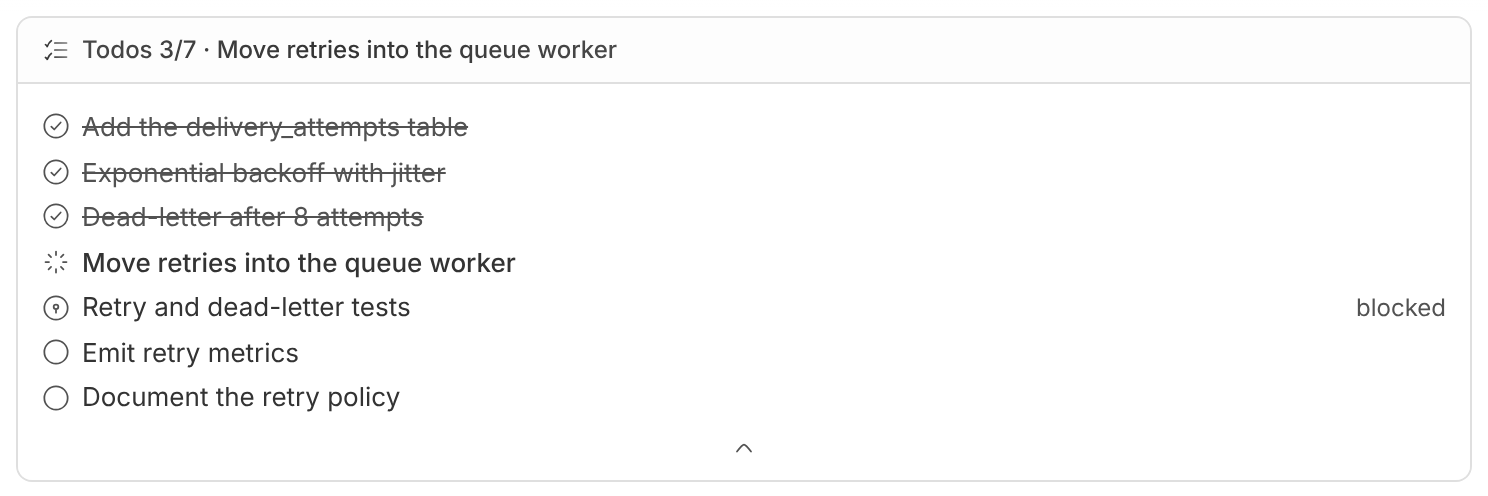
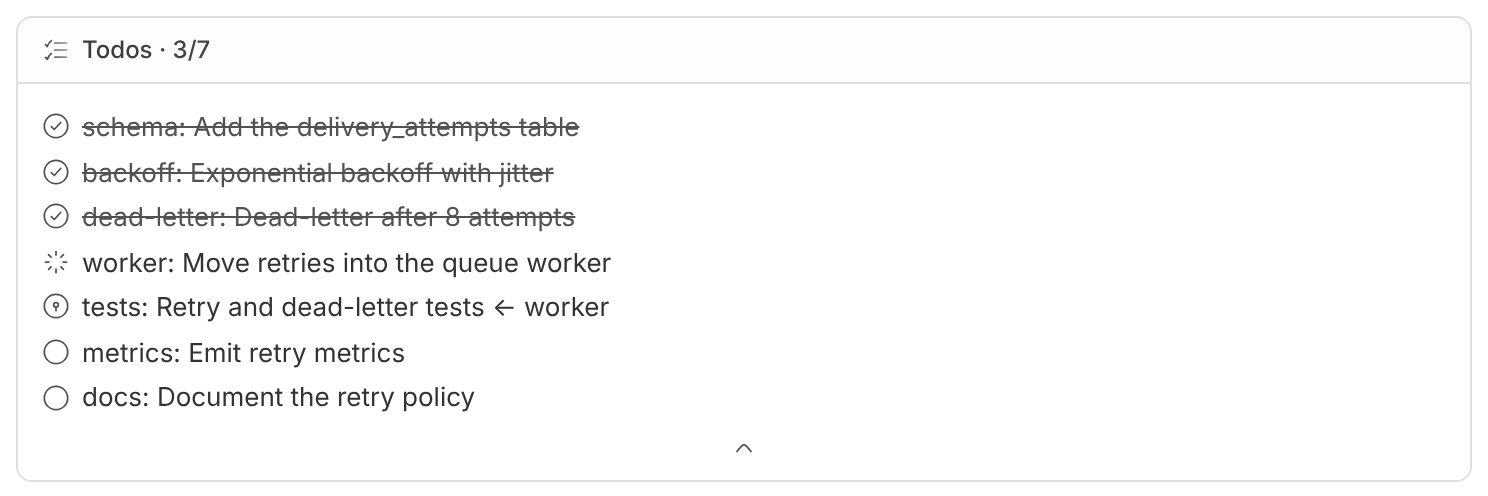
docs(bb): describe the slots that draw pi-surface views, and record package 7
Claude-Session: https://claude.ai/code/session_01MbvfwxLo2ULDWqmpcPBnJq

diff --git a/docs/bb/ui-slots.md b/docs/bb/ui-slots.md
@@ -14,7 +14,7 @@ slot below is `experimental_` unless noted; recheck after a bb upgrade.
 All images show fixture data from `bb pi-surface fixture --thread <id>`, cropped
 to the plugin's own element, light theme, 2x. The `bb-screenshot` skill
 (`.agents/skills/bb-screenshot/`) runs a private bb with the plugin and scripted
-Pi sessions and takes these crops; images 1 and 2 were last made with it.
+Pi sessions and takes these crops; images 1, 2 and 6 were last made with it.
 
 - **Live** images were captured from the bb web UI on loopback with headless
   Chromium, on a real thread page with the plugin installed.
@@ -43,10 +43,21 @@ sit. Register a banner with `chrome: "bare"` and draw
 `experimental_CollapsibleStackCard` (`label`, `title`, `icon`, `isActive`,
 optional `dismiss`, `children`). Plugin banners sit above bb's own cards.
 
-We draw two cards: **Todos** (`Todos 3/7 · <active task>`, active while a task
-is in progress, expanding to the task list with status glyphs) and
-**Subagents** (`Subagents · 2 running`, one row per agent with type,
-description, state, duration, tool count and latest note).
+Each card is one of the session's widget views (see
+[pi-surface](../../packages/pi-surface/README.md)), drawn by the plugin's
+generic renderer: **Todos** is `todo.widget` (`Todos · 3/7`, active while a task
+is in progress) and **Subagents** is `subagent.widget` (running, waiting and
+just-finished agents with their latest activity). The title is the widget's
+title and its fullest meta. Rows read as the terminal draws them at full
+width: the left line, then the fullest right-column fallback, with state glyphs
+as bb's icons in place. A subagent row is its clock, the agent type in bold,
+the description and, at the right, the spinner and activity; the clock carries
+its start time, so bb keeps it running between snapshots. A row whose most
+compact form is only its state glyph, a task, shows that state as its leading
+icon instead (a check, a spinner, a lock, a circle…), and a finished task is
+struck through.
+A widget with nothing to show draws no card. The plugin keeps only a small
+table of which widget gets a card and which bb icon it has.
 
 ![Todos and Subagents cards, collapsed](../images/bb/stack-cards.png)
 
@@ -58,8 +69,9 @@ Spacing: bb draws the card frame, the header (`px-3 py-1.5`: a 12px inset,
 14px icon, 6px gap to the title) and the collapse row at the bottom, and wraps
 `children` with no padding of its own. The body's padding is ours: the cards
 pad it `px-3 pt-3` and give rows the header's icon size and gap, so the body has
-the header's 12px inset on the left, right and top and its icons and text line
-up under the header's. The card takes no `className`, so the header and the
+the header's 12px inset on the left, right and top, and each row keeps a
+leading column as wide as the header's icon, so row text lines up under the
+header's title. The card takes no `className`, so the header and the
 collapse row cannot change. `bb-shot.mjs --check` in the `bb-screenshot` skill
 measures this in bb.
 
@@ -156,12 +168,19 @@ A tab in the thread's side panel. `experimental_tab({ context: { kind:
 pins one destination; `availability: "action"` would add a launcher for
 closable instances instead. Ours is the fixed **Pi** tab, visible only on
 threads with a session: header (name, status, agent, model, thinking, context
-use), open questions, todos (a task opens its status history, fetched from the
-session on demand), subagents, stash (an entry opens a preview of its first
-lines on demand), Git, recent tool calls and usage. It uses bb's
-`experimental_InfoSection`, `InfoList` and `InfoListRow`.
+use), open questions, then every explorer view the session offers, then recent
+tool calls and usage. The explorers are drawn by the generic renderer as Info
+sections: `todo.explorer`, `subagent.explorer`, `stash.explorer`,
+`git.worktrees` and `git.prs` in that order, any other after them. Each has its
+tabs beside the heading, its notices, and items with a badge that open into
+their detail: inline when the view carries it (subagents, worktrees, pull
+requests, where a URL opens in bb), otherwise through the view's `loadDetail`
+action on the session (a task's details and history, a stash entry's
+contents). Opening a task with an unreviewed message runs the view's
+`marker.onClear` (`todo.review`), as opening it in the terminal does. It uses
+bb's `experimental_InfoSection`, `InfoList` and `InfoListRow`.
 
-![Pi tab with one task history and one stash preview open](../images/bb/thread-tab.png)
+![Pi tab with a task, a pull request and a stash entry open](../images/bb/thread-tab.png)
 
 Limits: bb keeps a closed panel's tab mounted, so a tab that polls should pause
 with `experimental_useTabVisible()`; ours only reads the shared live query.

diff --git a/docs/plans/rpc-surfaces.md b/docs/plans/rpc-surfaces.md
@@ -77,7 +77,7 @@ Each is one pull request. "Base" is the branch it stacks on.
 | 4   | `claude/rpc-4-agent-models`       | 3      | Agents as virtual models in the model picker                         |
 | 5   | `claude/rpc-5-bb-surface`         | `main` | `pi-bb` adapter and the bb plugin with one example per slot          |
 | 6   | `claude/rpc-6-presentation-views` | 1      | `pi-presentation` publishes views and dispatches actions             |
-| 7   | later                             | 5, 6   | bb plugin draws `pi-surface` views generically; actions from the app |
+| 7   | `claude/eloquent-mayer-a107he`    | 5, 6   | bb plugin draws `pi-surface` views generically; actions from the app |
 | 8   | later                             | 5      | Remove `pi-dashboard` once bb's session panel replaces it            |
 | 9   | later                             | 5      | Tool rows: structured `details` and bb timeline renderers            |
 
@@ -176,12 +176,36 @@ Each is one pull request. "Base" is the branch it stacks on.
   become actions; their old request names stay as aliases only while the
   dashboard exists.
 - pi-todo and pi-stash move first; pi-git and pi-subagent follow in 7.
+- The snapshot carried only widget models here; 7 adds every kind.
+
+### 7. Views in bb
+
+- pi-git offers `git.worktrees` and `git.prs` (its two explorers); pi-subagent
+  offers `subagent.widget` (one model builder for the terminal widget and the
+  view) and `subagent.explorer` (the branch's roster).
+- `PresentationService.snapshot().views` carries every view's model, not only
+  widgets, so a client draws everything from the snapshot, a saved snapshot
+  included; a model over 256 KB is sent as an error. pi-dashboard leaves views
+  out of what it sends its hub.
+- pi-bb protocol 2: the snapshot carries `views`, and the app's requests are
+  `action { id, args? }` and `answer`. The bb plugin no longer sends
+  `stash-preview` or `todo-history`; pi-presentation keeps them for the
+  dashboard until 8.
+- The plugin's `ui/surface.tsx` draws widgets, explorers and details. Widget
+  views are the stack cards, from a table of view id and icon; explorer views
+  are the Pi tab's sections, in a fixed order with any other after. Items open
+  inline details, or run `loadDetail` on the session; `onOpen` and
+  `marker.onClear` run too. The header, questions, activity and usage stay
+  bespoke; the context row, context card, stash picker, row badge and sessions
+  page still read sections for their counts.
+- Views leave out what only a redrawing terminal keeps current: the subagent
+  widget's elapsed clock, and a running agent's duration.
+- Not done: actions on one item from the app, such as removing a worktree.
+  That needs an item action (label, action reference, confirmation) in the
+  explorer model and a key for it in the terminal's explorer.
 
 ### Later
 
-- **7:** the bb plugin's thread tab and cards draw `pi-surface` models with one
-  generic renderer and send actions back; the per-section components from 5
-  shrink to layout.
 - **8:** remove `pi-dashboard` (hub, page, reporter and tests, about 4,400
   lines) and the request aliases kept for it. Its page is the one place that
   draws every section a second time by hand; it is not worth porting to the
